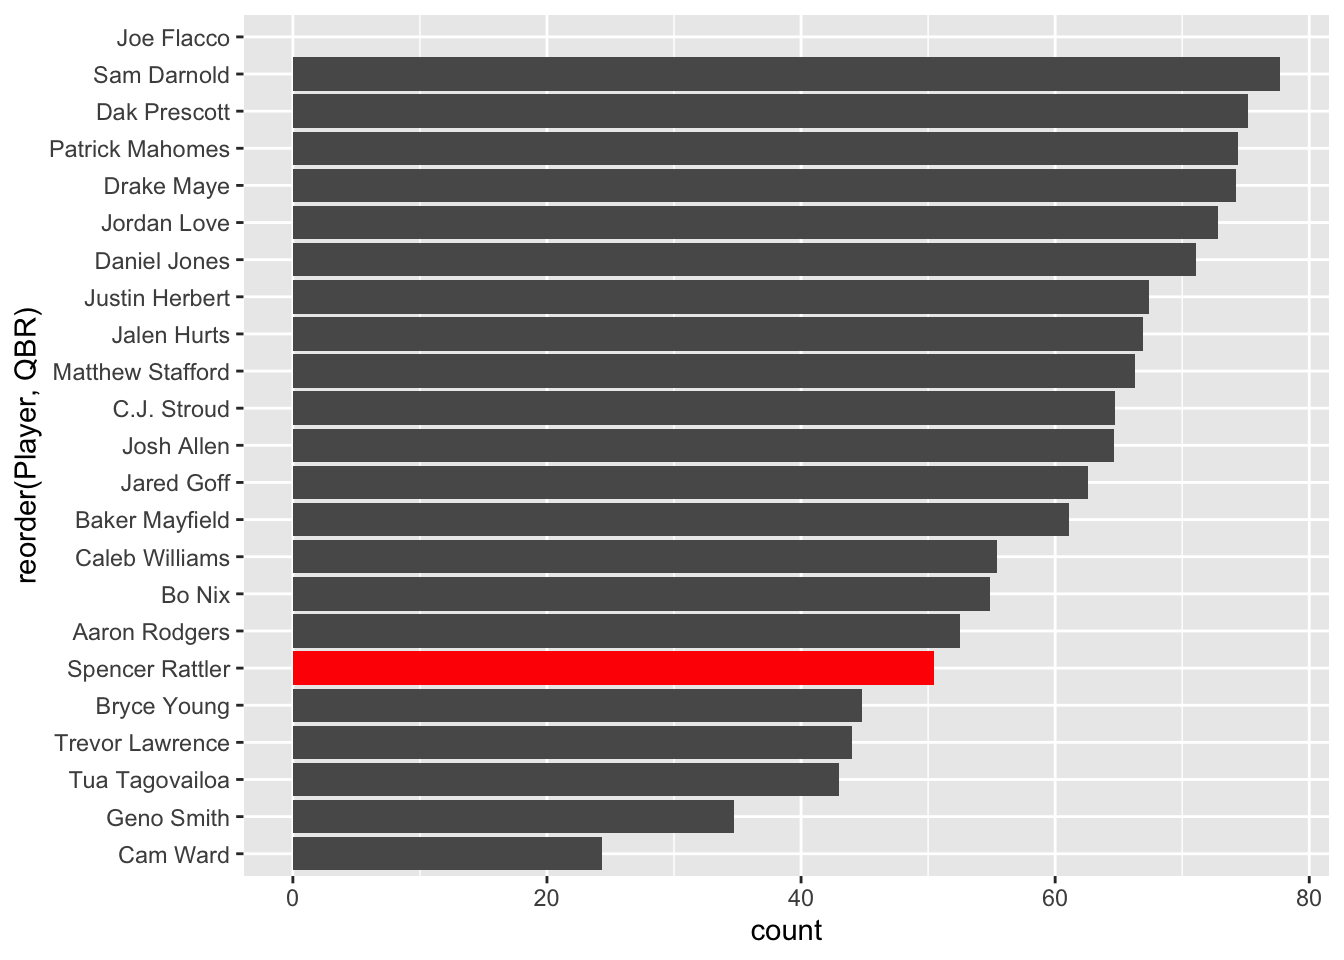
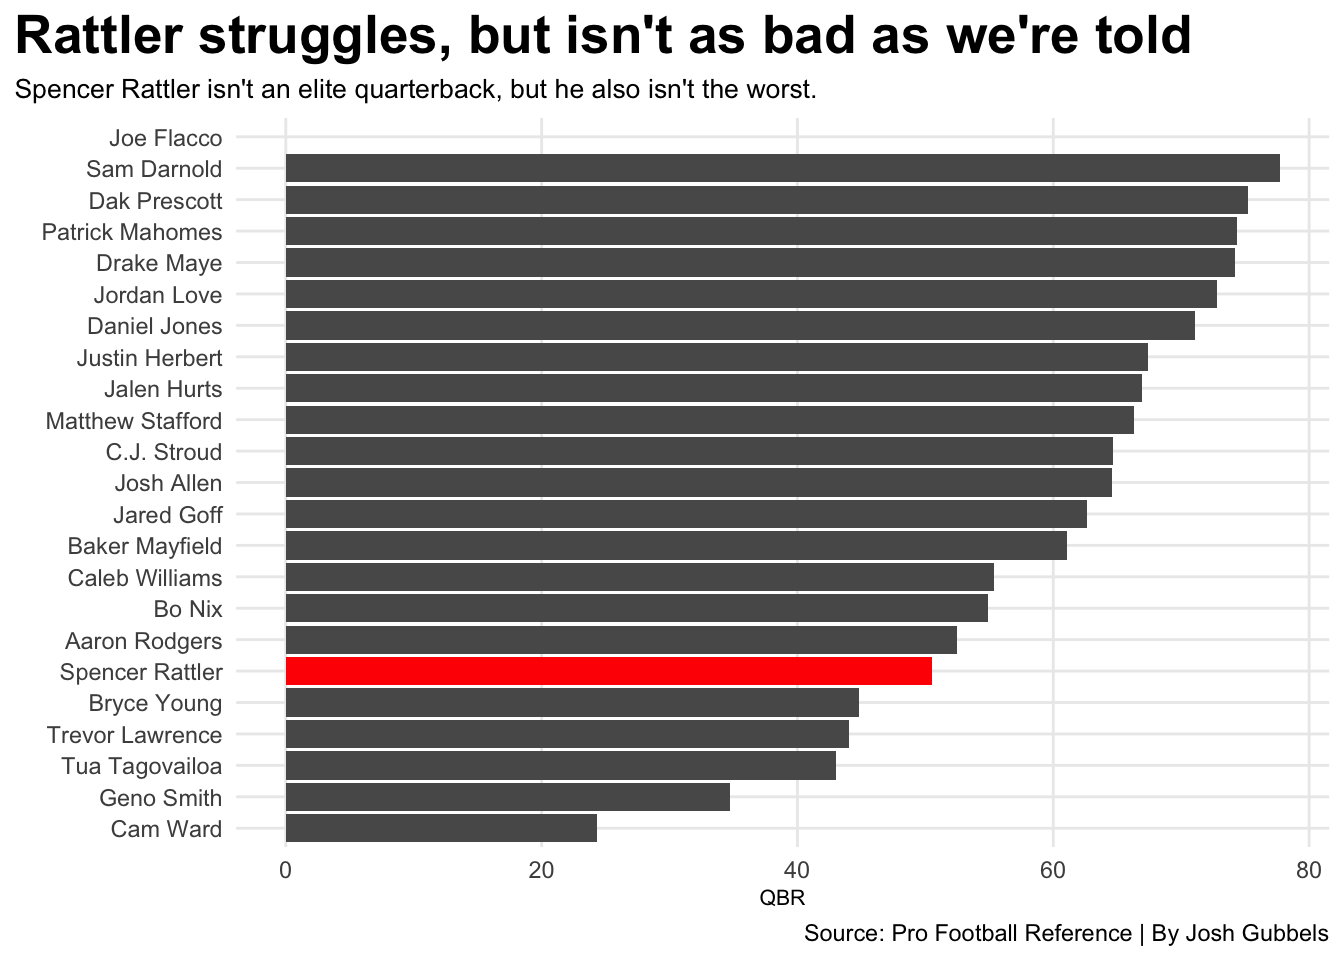
final draft

diff --git a/posts/spencer-rattler-qb-statistics/index.html b/posts/spencer-rattler-qb-statistics/index.html
@@ -212,7 +212,22 @@ pre > code.sourceCode > span > a:first-child::before { text-decoration: underlin
 <span id="cb1-14"><a href="#cb1-14" aria-hidden="true" tabindex="-1"></a><span class="fu">ggplot</span>() <span class="sc">+</span> </span>
 <span id="cb1-15"><a href="#cb1-15" aria-hidden="true" tabindex="-1"></a>  <span class="fu">geom_bar</span>(<span class="at">data=</span>startingqbs, <span class="fu">aes</span>(<span class="at">x=</span><span class="fu">reorder</span>(Player, QBR), <span class="at">weight=</span>QBR)) <span class="sc">+</span></span>
 <span id="cb1-16"><a href="#cb1-16" aria-hidden="true" tabindex="-1"></a>  <span class="fu">geom_bar</span>(<span class="at">data=</span>saints, <span class="fu">aes</span>(<span class="at">x=</span><span class="fu">reorder</span>(Player, QBR), <span class="at">weight=</span>QBR), <span class="at">fill=</span><span class="st">"red"</span>) <span class="sc">+</span></span>
-<span id="cb1-17"><a href="#cb1-17" aria-hidden="true" tabindex="-1"></a>  <span class="fu">coord_flip</span>()</span></code><button title="Copy to Clipboard" class="code-copy-button"><i class="bi"></i></button></pre></div>
+<span id="cb1-17"><a href="#cb1-17" aria-hidden="true" tabindex="-1"></a>  <span class="fu">coord_flip</span>() <span class="sc">+</span></span>
+<span id="cb1-18"><a href="#cb1-18" aria-hidden="true" tabindex="-1"></a>  <span class="fu">labs</span>(</span>
+<span id="cb1-19"><a href="#cb1-19" aria-hidden="true" tabindex="-1"></a>    <span class="at">x=</span><span class="st">""</span>, </span>
+<span id="cb1-20"><a href="#cb1-20" aria-hidden="true" tabindex="-1"></a>    <span class="at">y=</span><span class="st">"QBR"</span>, </span>
+<span id="cb1-21"><a href="#cb1-21" aria-hidden="true" tabindex="-1"></a>    <span class="at">title=</span><span class="st">"Rattler struggles, but isn't as bad as we're told"</span>, </span>
+<span id="cb1-22"><a href="#cb1-22" aria-hidden="true" tabindex="-1"></a>    <span class="at">subtitle=</span><span class="st">"Spencer Rattler isn't an elite quarterback, but he also isn't the worst."</span>, </span>
+<span id="cb1-23"><a href="#cb1-23" aria-hidden="true" tabindex="-1"></a>    <span class="at">caption=</span><span class="st">"Source: Pro Football Reference | By Josh Gubbels"</span></span>
+<span id="cb1-24"><a href="#cb1-24" aria-hidden="true" tabindex="-1"></a>    ) <span class="sc">+</span></span>
+<span id="cb1-25"><a href="#cb1-25" aria-hidden="true" tabindex="-1"></a>  <span class="fu">theme_minimal</span>() <span class="sc">+</span> </span>
+<span id="cb1-26"><a href="#cb1-26" aria-hidden="true" tabindex="-1"></a>  <span class="fu">theme</span>(</span>
+<span id="cb1-27"><a href="#cb1-27" aria-hidden="true" tabindex="-1"></a>    <span class="at">plot.title =</span> <span class="fu">element_text</span>(<span class="at">size =</span> <span class="dv">20</span>, <span class="at">face =</span> <span class="st">"bold"</span>),</span>
+<span id="cb1-28"><a href="#cb1-28" aria-hidden="true" tabindex="-1"></a>    <span class="at">axis.title =</span> <span class="fu">element_text</span>(<span class="at">size =</span> <span class="dv">8</span>), </span>
+<span id="cb1-29"><a href="#cb1-29" aria-hidden="true" tabindex="-1"></a>    <span class="at">plot.subtitle =</span> <span class="fu">element_text</span>(<span class="at">size=</span><span class="dv">10</span>), </span>
+<span id="cb1-30"><a href="#cb1-30" aria-hidden="true" tabindex="-1"></a>    <span class="at">panel.grid.minor =</span> <span class="fu">element_blank</span>(),</span>
+<span id="cb1-31"><a href="#cb1-31" aria-hidden="true" tabindex="-1"></a>    <span class="at">plot.title.position =</span> <span class="st">"plot"</span></span>
+<span id="cb1-32"><a href="#cb1-32" aria-hidden="true" tabindex="-1"></a>    ) </span></code><button title="Copy to Clipboard" class="code-copy-button"><i class="bi"></i></button></pre></div>
 </details>
 <div class="cell-output-display">
 <div>
@@ -222,7 +237,7 @@ pre > code.sourceCode > span > a:first-child::before { text-decoration: underlin
 </div>
 </div>
 </div>
-<p>No we see that Rattler definitely wasn’t great, but his QBR isn’t too far from quarterbacks like Aaron Rodgers and Bo Nix. Both these quarterbacks currently have winning records with Bo Nix and the Broncos being a top team in the AFC.</p>
+<p>No we see that Rattler definitely wasn’t great with a QBR of 49.1, but his QBR isn’t too far from quarterbacks like Aaron Rodgers and Bo Nix. Both these quarterbacks currently have winning records with Bo Nix and the Broncos being a top team in the AFC.</p>
 <p>Since maybe QBR isn’t too accurate of a stat, lets look at where Rattler sits at in the passing yards poll.</p>
 <div class="cell">
 <details class="code-fold">
@@ -252,7 +267,22 @@ pre > code.sourceCode > span > a:first-child::before { text-decoration: underlin
 <span id="cb2-23"><a href="#cb2-23" aria-hidden="true" tabindex="-1"></a>    <span class="fu">aes</span>(<span class="at">x=</span>Pos, <span class="at">y=</span>YDS), <span class="at">color=</span><span class="st">"red"</span>) <span class="sc">+</span> </span>
 <span id="cb2-24"><a href="#cb2-24" aria-hidden="true" tabindex="-1"></a>  <span class="fu">geom_text_repel</span>(</span>
 <span id="cb2-25"><a href="#cb2-25" aria-hidden="true" tabindex="-1"></a>    <span class="at">data=</span>sr, </span>
-<span id="cb2-26"><a href="#cb2-26" aria-hidden="true" tabindex="-1"></a>    <span class="fu">aes</span>(<span class="at">x=</span>Pos, <span class="at">y=</span>YDS, <span class="at">label=</span>Player))</span></code><button title="Copy to Clipboard" class="code-copy-button"><i class="bi"></i></button></pre></div>
+<span id="cb2-26"><a href="#cb2-26" aria-hidden="true" tabindex="-1"></a>    <span class="fu">aes</span>(<span class="at">x=</span>Pos, <span class="at">y=</span>YDS, <span class="at">label=</span>Player))<span class="sc">+</span></span>
+<span id="cb2-27"><a href="#cb2-27" aria-hidden="true" tabindex="-1"></a>  <span class="fu">labs</span>(</span>
+<span id="cb2-28"><a href="#cb2-28" aria-hidden="true" tabindex="-1"></a>    <span class="at">x=</span><span class="st">""</span>, </span>
+<span id="cb2-29"><a href="#cb2-29" aria-hidden="true" tabindex="-1"></a>    <span class="at">y=</span><span class="st">"Passing Yards"</span>, </span>
+<span id="cb2-30"><a href="#cb2-30" aria-hidden="true" tabindex="-1"></a>    <span class="at">title=</span><span class="st">"Rattler still doesn't impress in passing yards"</span>, </span>
+<span id="cb2-31"><a href="#cb2-31" aria-hidden="true" tabindex="-1"></a>    <span class="at">subtitle=</span><span class="st">"Rattler is a little higher in the ranks here, but he is still in the lower third of quarterbacks."</span>, </span>
+<span id="cb2-32"><a href="#cb2-32" aria-hidden="true" tabindex="-1"></a>    <span class="at">caption=</span><span class="st">"Source: Pro Football Reference | By Josh Gubbels"</span></span>
+<span id="cb2-33"><a href="#cb2-33" aria-hidden="true" tabindex="-1"></a>    ) <span class="sc">+</span></span>
+<span id="cb2-34"><a href="#cb2-34" aria-hidden="true" tabindex="-1"></a>  <span class="fu">theme_minimal</span>() <span class="sc">+</span> </span>
+<span id="cb2-35"><a href="#cb2-35" aria-hidden="true" tabindex="-1"></a>  <span class="fu">theme</span>(</span>
+<span id="cb2-36"><a href="#cb2-36" aria-hidden="true" tabindex="-1"></a>    <span class="at">plot.title =</span> <span class="fu">element_text</span>(<span class="at">size =</span> <span class="dv">20</span>, <span class="at">face =</span> <span class="st">"bold"</span>),</span>
+<span id="cb2-37"><a href="#cb2-37" aria-hidden="true" tabindex="-1"></a>    <span class="at">axis.title =</span> <span class="fu">element_text</span>(<span class="at">size =</span> <span class="dv">8</span>), </span>
+<span id="cb2-38"><a href="#cb2-38" aria-hidden="true" tabindex="-1"></a>    <span class="at">plot.subtitle =</span> <span class="fu">element_text</span>(<span class="at">size=</span><span class="dv">10</span>), </span>
+<span id="cb2-39"><a href="#cb2-39" aria-hidden="true" tabindex="-1"></a>    <span class="at">panel.grid.minor =</span> <span class="fu">element_blank</span>(),</span>
+<span id="cb2-40"><a href="#cb2-40" aria-hidden="true" tabindex="-1"></a>    <span class="at">plot.title.position =</span> <span class="st">"plot"</span></span>
+<span id="cb2-41"><a href="#cb2-41" aria-hidden="true" tabindex="-1"></a>    ) </span></code><button title="Copy to Clipboard" class="code-copy-button"><i class="bi"></i></button></pre></div>
 </details>
 <div class="cell-output-display">
 <div>
@@ -262,9 +292,9 @@ pre > code.sourceCode > span > a:first-child::before { text-decoration: underlin
 </div>
 </div>
 </div>
-<p>Rattler is currently sitting at 24 out of 32 quarterbacks int he passing yards column.</p>
+<p>Rattler is currently sitting at 24 out of 32 quarterbacks in the passing yards column. He is sitting right above quarterbacks such as Lamar Jackson, Jaxson Dart, and Justin Fields.</p>
 <p>Again not good by any means, but he also isn’t the worst of them all.</p>
-<p>Now we finally should look at Rattler’s touchdown to interception ratio compared tot he other starting quarterbacks.</p>
+<p>Now we finally will look at Rattler’s touchdown to interception ratio compared to the other starting quarterbacks.</p>
 <div class="cell">
 <details class="code-fold">
 <summary>Code</summary>
@@ -285,7 +315,22 @@ pre > code.sourceCode > span > a:first-child::before { text-decoration: underlin
 <span id="cb3-15"><a href="#cb3-15" aria-hidden="true" tabindex="-1"></a>    <span class="at">size =</span> <span class="dv">2</span>,</span>
 <span id="cb3-16"><a href="#cb3-16" aria-hidden="true" tabindex="-1"></a>    <span class="at">colour =</span> <span class="st">"grey"</span>,</span>
 <span id="cb3-17"><a href="#cb3-17" aria-hidden="true" tabindex="-1"></a>    <span class="at">colour_x =</span> <span class="st">"green"</span>,</span>
-<span id="cb3-18"><a href="#cb3-18" aria-hidden="true" tabindex="-1"></a>    <span class="at">colour_xend =</span> <span class="st">"red"</span>)</span></code><button title="Copy to Clipboard" class="code-copy-button"><i class="bi"></i></button></pre></div>
+<span id="cb3-18"><a href="#cb3-18" aria-hidden="true" tabindex="-1"></a>    <span class="at">colour_xend =</span> <span class="st">"red"</span>)<span class="sc">+</span></span>
+<span id="cb3-19"><a href="#cb3-19" aria-hidden="true" tabindex="-1"></a>  <span class="fu">labs</span>(</span>
+<span id="cb3-20"><a href="#cb3-20" aria-hidden="true" tabindex="-1"></a>    <span class="at">x=</span><span class="st">""</span>, </span>
+<span id="cb3-21"><a href="#cb3-21" aria-hidden="true" tabindex="-1"></a>    <span class="at">y=</span><span class="st">""</span>, </span>
+<span id="cb3-22"><a href="#cb3-22" aria-hidden="true" tabindex="-1"></a>    <span class="at">title=</span><span class="st">"Rattler is not a standout quarterback"</span>, </span>
+<span id="cb3-23"><a href="#cb3-23" aria-hidden="true" tabindex="-1"></a>    <span class="at">subtitle=</span><span class="st">"Spencer Rattler doesn't have a lot of touchdowns, but also doesn't have very many interceptions."</span>, </span>
+<span id="cb3-24"><a href="#cb3-24" aria-hidden="true" tabindex="-1"></a>    <span class="at">caption=</span><span class="st">"Source: Pro Football Reference | By Josh Gubbels"</span></span>
+<span id="cb3-25"><a href="#cb3-25" aria-hidden="true" tabindex="-1"></a>    ) <span class="sc">+</span></span>
+<span id="cb3-26"><a href="#cb3-26" aria-hidden="true" tabindex="-1"></a>  <span class="fu">theme_minimal</span>() <span class="sc">+</span> </span>
+<span id="cb3-27"><a href="#cb3-27" aria-hidden="true" tabindex="-1"></a>  <span class="fu">theme</span>(</span>
+<span id="cb3-28"><a href="#cb3-28" aria-hidden="true" tabindex="-1"></a>    <span class="at">plot.title =</span> <span class="fu">element_text</span>(<span class="at">size =</span> <span class="dv">20</span>, <span class="at">face =</span> <span class="st">"bold"</span>),</span>
+<span id="cb3-29"><a href="#cb3-29" aria-hidden="true" tabindex="-1"></a>    <span class="at">axis.title =</span> <span class="fu">element_text</span>(<span class="at">size =</span> <span class="dv">8</span>), </span>
+<span id="cb3-30"><a href="#cb3-30" aria-hidden="true" tabindex="-1"></a>    <span class="at">plot.subtitle =</span> <span class="fu">element_text</span>(<span class="at">size=</span><span class="dv">10</span>), </span>
+<span id="cb3-31"><a href="#cb3-31" aria-hidden="true" tabindex="-1"></a>    <span class="at">panel.grid.minor =</span> <span class="fu">element_blank</span>(),</span>
+<span id="cb3-32"><a href="#cb3-32" aria-hidden="true" tabindex="-1"></a>    <span class="at">plot.title.position =</span> <span class="st">"plot"</span></span>
+<span id="cb3-33"><a href="#cb3-33" aria-hidden="true" tabindex="-1"></a>    ) </span></code><button title="Copy to Clipboard" class="code-copy-button"><i class="bi"></i></button></pre></div>
 </details>
 <div class="cell-output-display">
 <div>
@@ -295,6 +340,10 @@ pre > code.sourceCode > span > a:first-child::before { text-decoration: underlin
 </div>
 </div>
 </div>
+<p>As we can see Spencer Rattler isn’t throwing a lot of touchdowns or interceptions. On the bright side of things he has a positive touchdowns to interceptions ratio unlike Geno Smith and Cam Ward.</p>
+<p>Many can make the excuses of bad play calling, or the fact that the Saints have the 28th ranked rushing offense in the NFL. With such a bad rushing game it can be hard to move the ball in the air.</p>
+<p>The Saints defense can also use some improvement in being ranked 21st in rushing defense and 23rd in points allowed per game. When you aren’t able to stop another teams offense it can be hard for your own offense to keep up.</p>
+<p>At the end of the day Spencer Rattler isn’t a franchise quarterback, but he could be a really good backup with the right team and coaching staff around him.</p>
 
 
 

diff --git a/index.html b/index.html
@@ -205,7 +205,7 @@ window.Quarto = {
 
 <div class="quarto-listing quarto-listing-container-default" id="listing-listing">
 <div class="list quarto-listing-default">
-<div class="quarto-post image-right" data-index="0" data-categories="Zm9vdGJhbGwlMkNuZmwlMkNxdWFydGVyYmFjaw==" data-listing-date-sort="1762236000000" data-listing-file-modified-sort="1763399554209" data-listing-date-modified-sort="NaN" data-listing-reading-time-sort="2" data-listing-word-count-sort="354">
+<div class="quarto-post image-right" data-index="0" data-categories="Zm9vdGJhbGwlMkNuZmwlMkNxdWFydGVyYmFjaw==" data-listing-date-sort="1762236000000" data-listing-file-modified-sort="1763432099422" data-listing-date-modified-sort="NaN" data-listing-reading-time-sort="5" data-listing-word-count-sort="848">
 <div class="thumbnail">
 <p><a href="./posts/spencer-rattler-qb-statistics/index.html" class="no-external"></a></p><a href="./posts/spencer-rattler-qb-statistics/index.html" class="no-external">
 <p><img loading="lazy" src="./posts/spencer-rattler-qb-statistics/image.png" class="thumbnail-image"></p>
